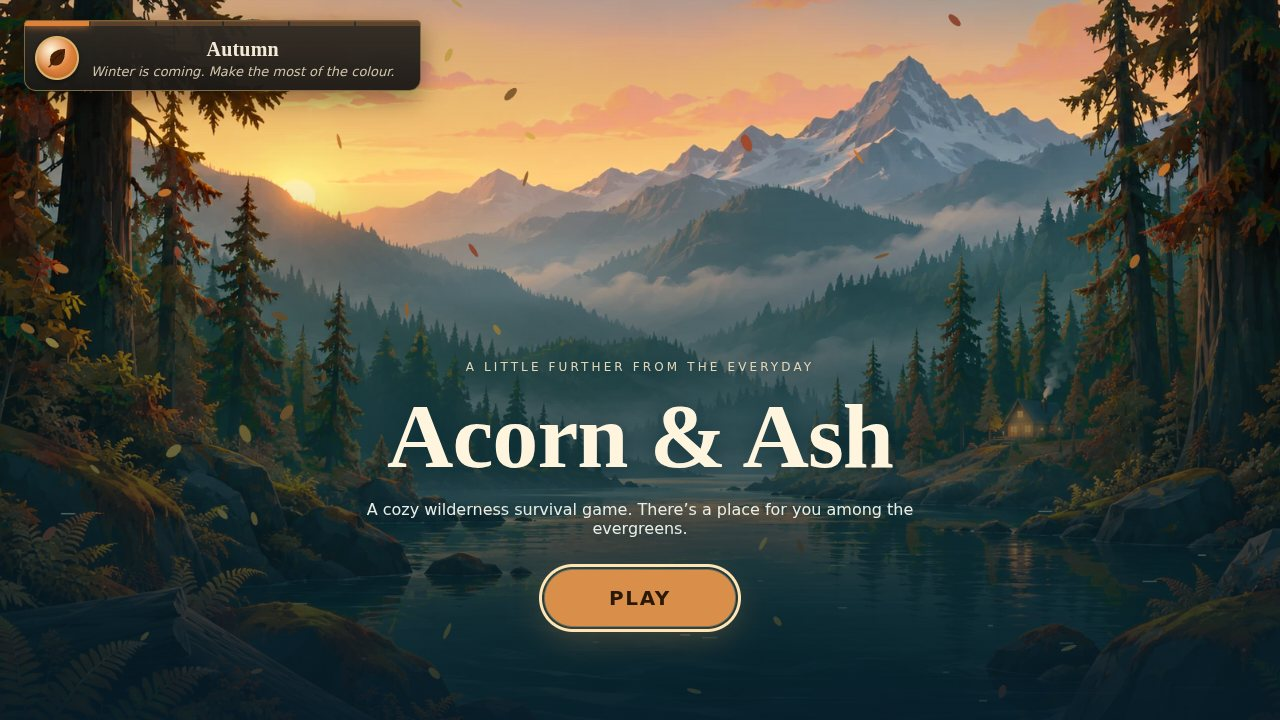
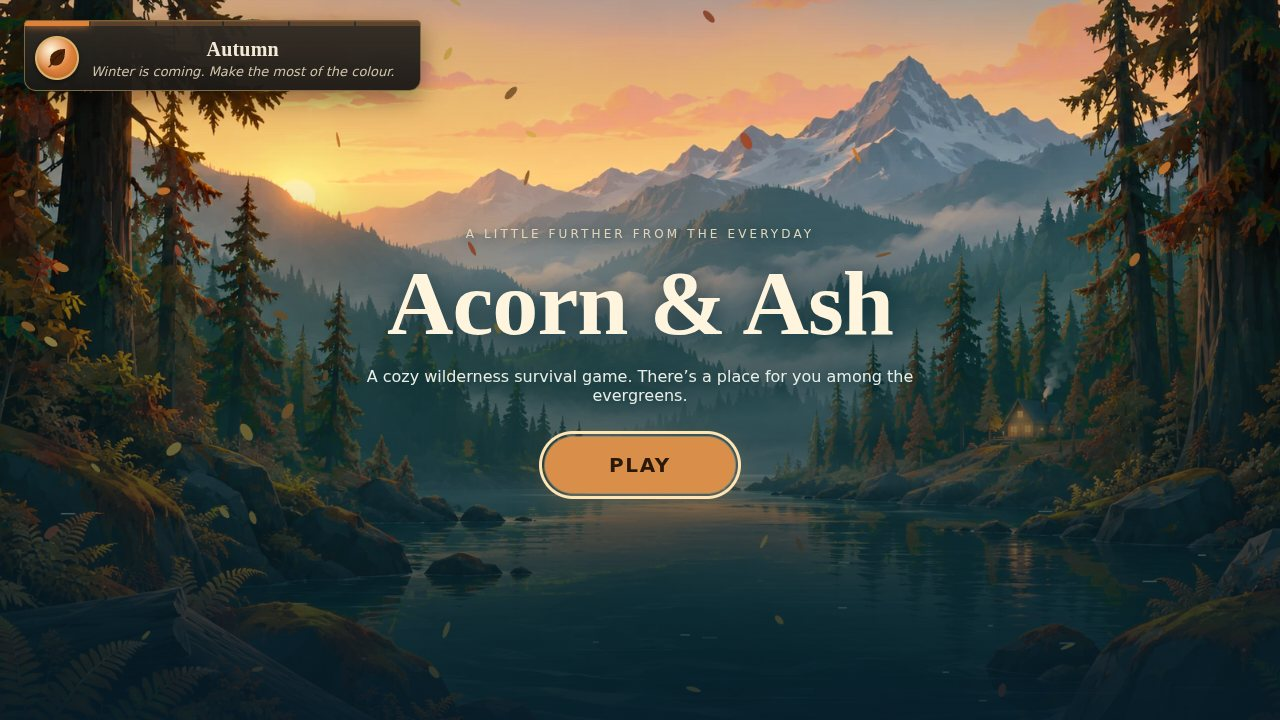
Centre the front page content vertically
The title, tagline and Play button sat low on the page, with a big gap
underneath. They now have the same room above and below. A browser test
measures it at three window heights.

Claude-Session: https://claude.ai/code/session_01KfkG6ZM6GdkbeeqTVDSQNM

diff --git a/e2e/season-banner.spec.ts b/e2e/season-banner.spec.ts
@@ -75,6 +75,22 @@ test.describe('on the home screens', () => {
   });
 });
 
+test.describe('the front page', () => {
+  for (const height of [500, 720, 1000]) {
+    test(`has its content in the middle of a ${height} px tall window`, async ({ page }) => {
+      await pretendSignedOut(page);
+      await page.setViewportSize({ width: 1280, height });
+      await page.goto('/?season=summer');
+      const copy = await page.locator('.front-copy').boundingBox();
+      expect(copy).not.toBeNull();
+      const above = copy!.y;
+      const below = height - (copy!.y + copy!.height);
+      // The same room above the title as below the Play button, give or take a pixel.
+      expect(Math.abs(above - below)).toBeLessThanOrEqual(2);
+    });
+  }
+});
+
 test.describe('in the game', () => {
   async function enterWorld(page: Page, search: string): Promise<void> {
     await page.goto(`/?renderer=webgl2&world=${newWorld()}${search}`);

diff --git a/apps/client/src/styles.css b/apps/client/src/styles.css
@@ -1775,17 +1775,12 @@ body {
   display: flex;
   flex-direction: column;
   align-items: center;
-  justify-content: flex-end;
-  padding: 32px 16px clamp(48px, 13vh, 140px);
+  justify-content: center;
+  padding: 32px 16px;
   overflow-y: auto;
   background: #183f40;
   color: #fff5de;
   text-align: center;
-}
-
-.front-door-choices {
-  justify-content: center;
-  padding-bottom: 32px;
 }
 
 .front-copy,
